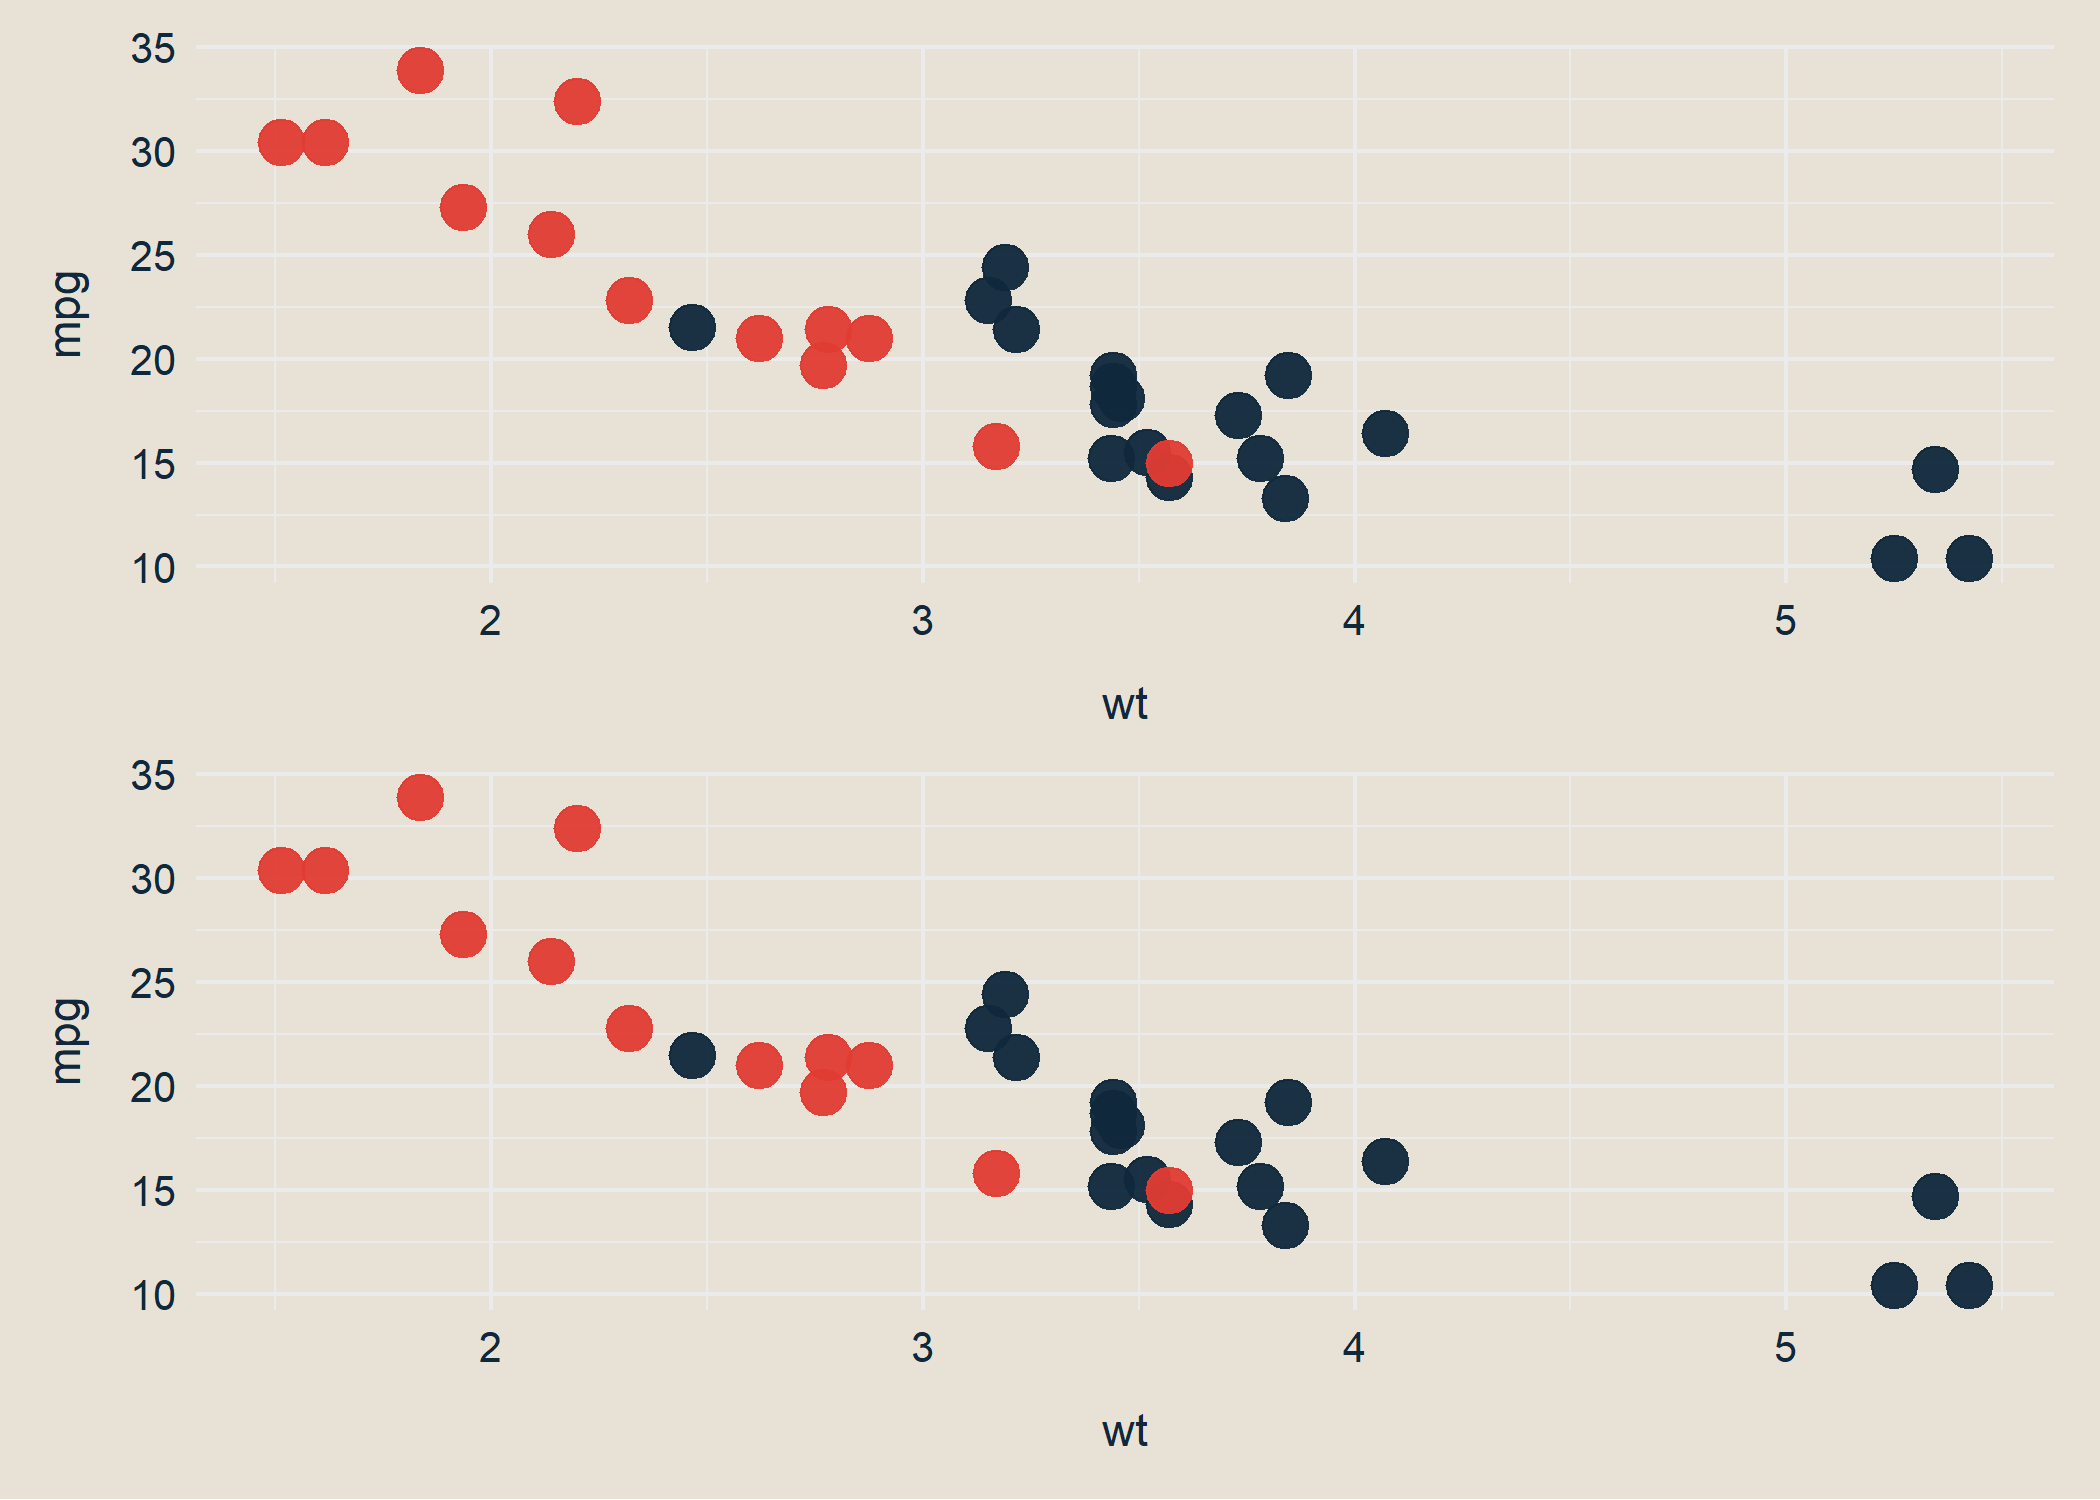
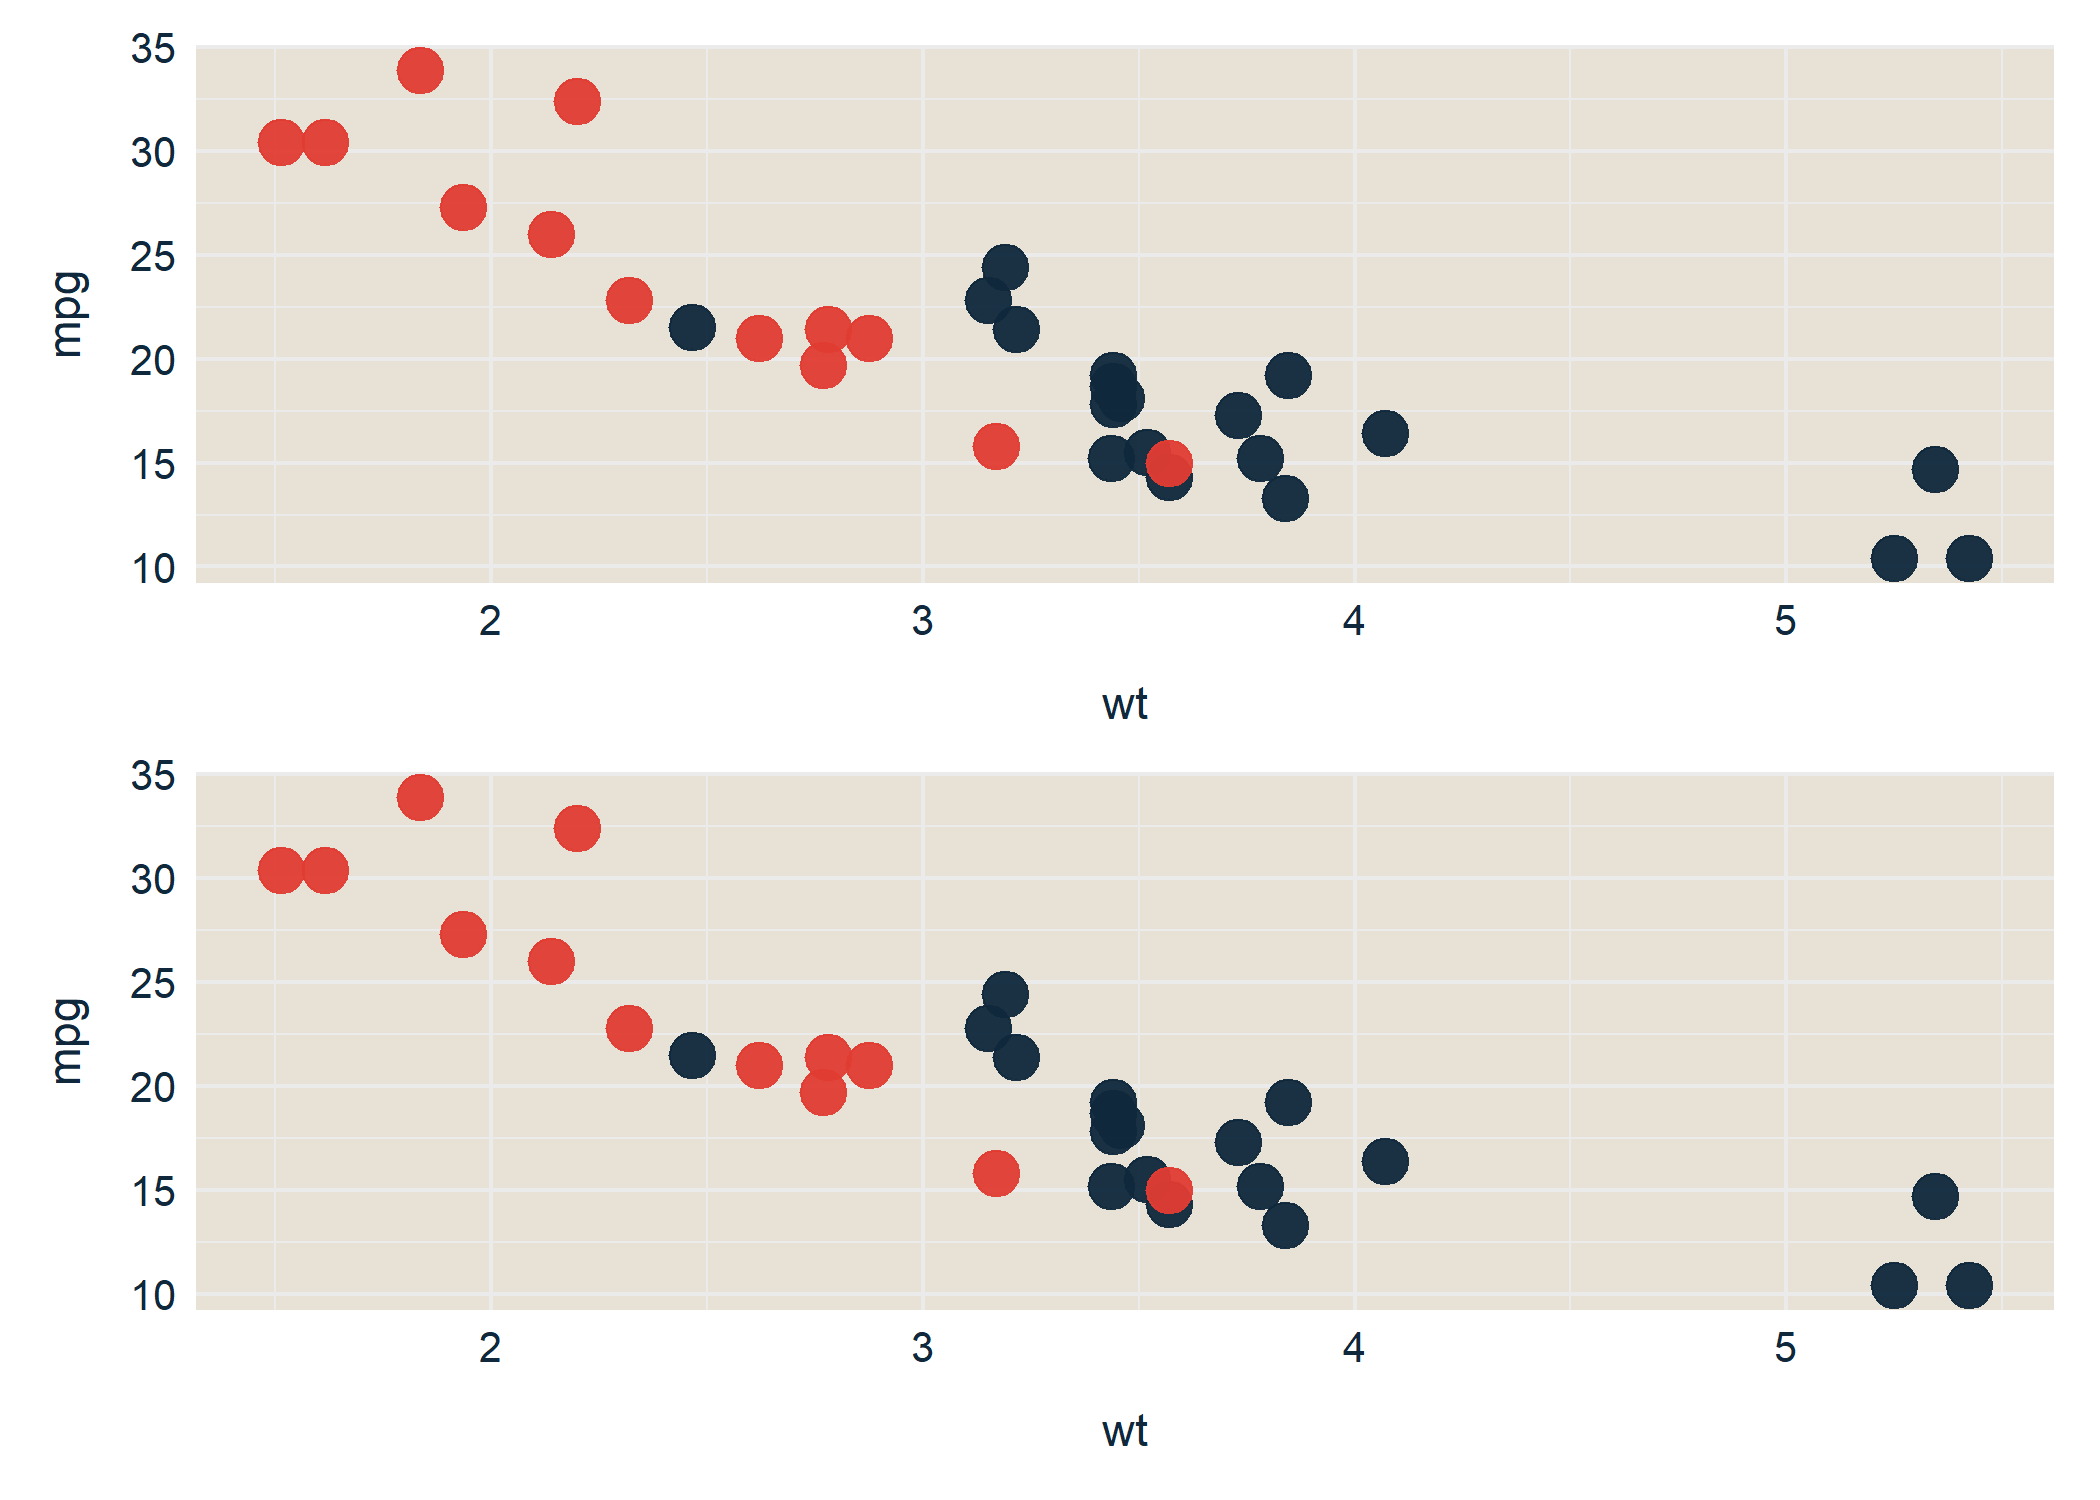
README

diff --git a/README.md b/README.md
@@ -144,14 +144,7 @@ p2 <- ggplot(mtcars, aes(x = wt, y = mpg, color = factor(am))) +
 
 
 library(patchwork)
-(p1 / p2) + 
-  plot_annotation(theme = 
-                    theme(plot.background = 
-                            element_rect(color = NA,
-                                         fill = grabcol("Epinion WarmSand"),
-                                         )
-                          )
-                  )
+(p1 / p2) 
 ```
 
 <img src="man/figures/README-unnamed-chunk-4-1.png" width="85%" style="display: block; margin: auto;" />
